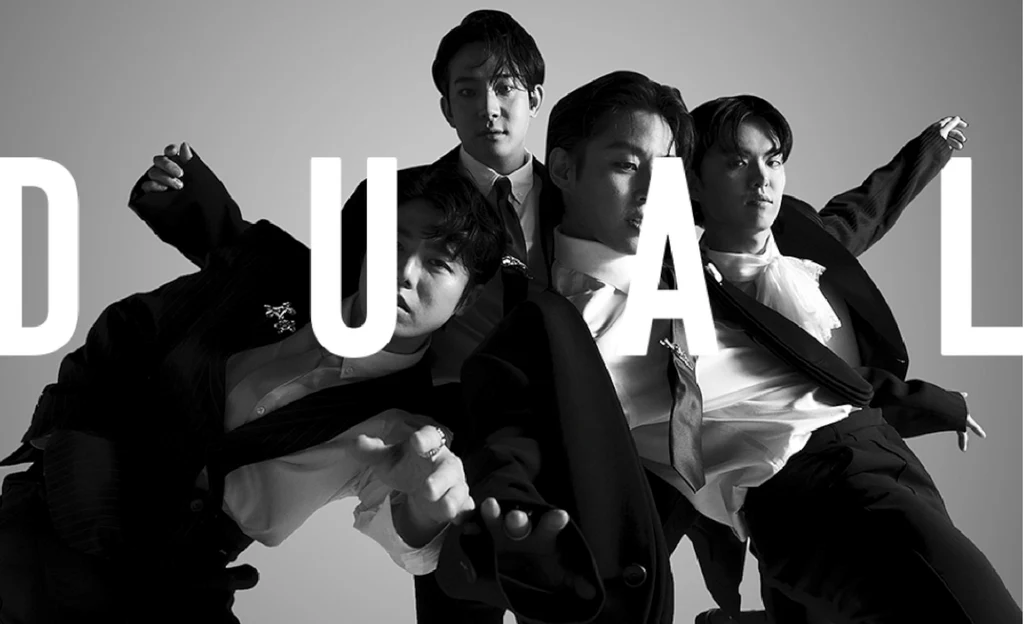
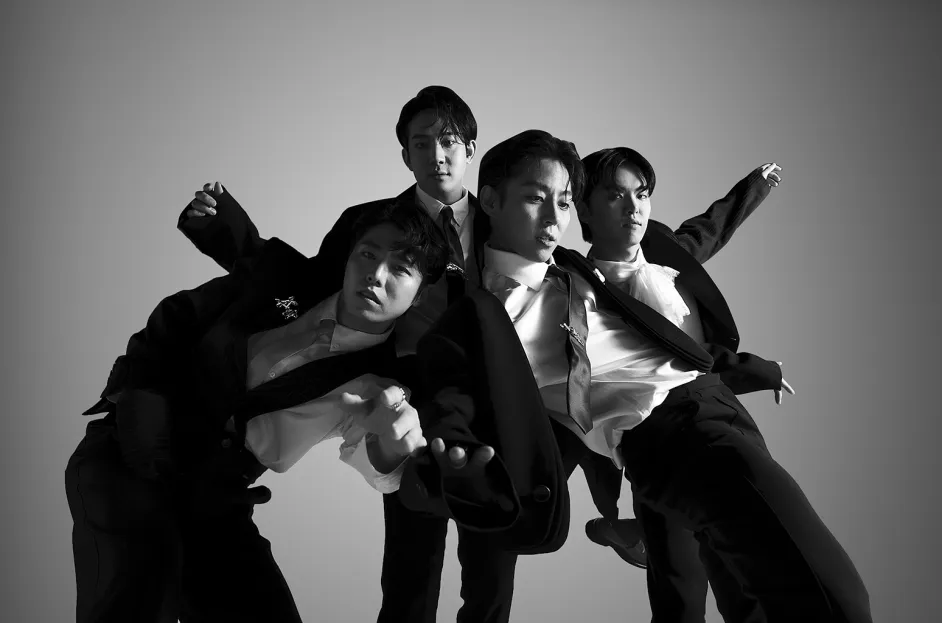
agregué contenido
agregué más contenido a la página, hice cambios en la estructura y en el menú hamburguesa

diff --git a/css/styles.css b/css/styles.css
@@ -1,7 +1,4 @@
 body{
- /*   width: 100%;
-   height: 100%; */
-   background-color: rgb(0, 0, 0);
    color:#FFFEFD;
    font-family: "Oswald", sans-serif;
    font-optical-sizing: auto;
@@ -13,10 +10,10 @@ body{
    background-repeat: no-repeat;
    background-attachment: fixed;
 }
-#principal{
+#logoPrincipal{
     display: inline-block;
     position: absolute;
-    right: 40%;
+    right: 37%;
     top: 4%;
 }
 #rosa{
@@ -28,7 +25,6 @@ body{
     position: fixed;
     top: 0;
     right: 0;
-    z-index: 999; 
 }
 a{
    text-decoration: none;
@@ -36,7 +32,7 @@ a{
    right: 0;
    display: inline-block;
    padding: 3rem;
-   color: #c78f27;
+   color: #fffffe;
 }
 #panel_hamburguesa{
     position: fixed;
@@ -46,13 +42,14 @@ a{
     background-size: 100% 100%;
     height: 600px;
     width: 270px;
-    background-image: url(../images/imgMenu.jpg);
+    background-color: #74706d38;
+    border-style:double;
+    /* background-image: url(../images/imgMenu.jpg);
     background-repeat: repeat;
-    background-size: 90px;
+    background-size: 90px; */
 }
 #panel_hamburguesa:target{
     right: 0;
-    z-index: 999;
 }
 #cerrar{
     display: none;
@@ -63,42 +60,22 @@ a{
 #panel_hamburguesa:target ~ header nav #cerrar{
     display: inline-block;
 }
-.rosarium{
+/* .rosarium{
    display: block;
    text-align: left;
 }
-.enlace{
+.discosPrevios{
     display: block;
     text-align: left;
-}
-#tapado{
-    position:fixed;
-    top: 0;
-    left: 0;
-    width: 100%;
-    height: 100%;
-    z-index: 900;
-    background-color: rgba(0, 0, 0, 0);
-    opacity: 0;
-    transition: background-color 1s ease opacity 0.5 ease;
-}
-#panelhamburguesa :target ~ #tapado{
-   
-    opacity: 1;
-    background-color: rgba(175, 36, 36, 0.61);
-}
+} */
 #parrafos{
-    /* display: block;
-    flex-flow: column wrap;
-    align-items: center; */
-    
     text-align: center;
     display: inline-block;
     position: absolute;
-    right: 28%;
+    right: 25%;
     top: 30%;
 }
-.portada{
+.portadaAlbum{
     width: 350px;
 }
 #album{
@@ -107,7 +84,7 @@ a{
    left: 18%;
    top: 70%;
 }
-#descripcion{
+#descripcionAlbum{
   display: inline-block;
   position: absolute;
   right: 50%;
@@ -130,35 +107,33 @@ iframe{
     left: 15%;
     top: 110%;
 }
-#banda{
+#imgBanda{
    display: inline-block;
    position: absolute;
    right: 10%;
    top: 142%;
 }
  .fotos{
-    width: 600px;
-    height: 500px;
-    /* display: inline-block;
-    position: absolute;
-    top: 250%; */
+    width: 620px;
+    height: 520px;
+    padding: 10px;
  }
- #carrusel{
+ #carrusel1{
     display: inline-block;
     position: absolute;
-    top:240%;
+    top:238%;
     left: 20%;
  }
-/*  #carrusel{
-    min-width: 100vw;
-    display:flex;
-    flex-flow: row wrap;
-    justify-content: space-evenly;
- } */
-  
-/* header{
-    min-width: 100vw;
-    display:flex;
-    flex-direction: row;
-    justify-content: space-between;
-} */
+ #fotoMedio{
+    display: inline-block;
+    position: absolute;
+    top: 295%;
+    left: 36%;
+    height: 550px;
+ }
+#carrusel2{
+    display: inline-block;
+    position: absolute;
+    top: 355%;
+    left: 20%;
+}

diff --git a/index.html b/index.html
@@ -30,16 +30,21 @@
         href="https://web.therosarium.app/the-rose/sign_up"
         >The Rosarium</a
       >
-      <a target="_blank" class="enlace" href="#">Discos previos</a>
+      <a
+        target="_blank"
+        href="https://officialtherose.store/collections/album-md"
+        >Merch Oficial</a
+      >
+      <a class="discosPrevios" href="#">Discos Previos</a>
+      <a href="#carrusel1">Concepto: DUAL</a>
     </div>
-    <div id="tapado"></div>
     <header>
       <img
         id="rosa"
         src="./images/imgBlackRose.jpg"
         alt="logoBlackRose"
       /><!-- este logo de Rosa queda fijo en la pantalla -->
-      <div id="principal">
+      <div id="logoPrincipal">
         <img src="./images/logoTheRose.png" alt="logo_TheRose" />
       </div>
       <nav>
@@ -93,9 +98,13 @@
       </section>
       <section>
         <div id="album">
-          <img class="portada" src="./images/dualLogo2.png" alt="logo_Album" />
+          <img
+            class="portadaAlbum"
+            src="./images/dualLogo2.png"
+            alt="logo_Album"
+          />
         </div>
-        <div id="descripcion">
+        <div id="descripcionAlbum">
           <p>Álbum</p>
           <p id="parrafoDual">DUAL</p>
           <p>11 canciones, 32min 25s</p>
@@ -217,7 +226,7 @@
         </div>
       </section>
       <section>
-        <div id="banda">
+        <div id="imgBanda">
           <figure>
             <img src="./images/banda2.jpg" alt="imagen_banda" height="500px" />
             <figcaption>Concepto Álbum Dual</figcaption>
@@ -225,9 +234,19 @@
         </div>
       </section>
       <section>
-        <div id="carrusel">
+        <div id="carrusel1">
           <img class="fotos" src="./images/banda3.png" alt="imagen_banda" />
           <img class="fotos" src="./images/banda4.webp" alt="imagen_banda" />
+        </div>
+        <img
+          id="fotoMedio"
+          class="fotos"
+          src="./images/banda7.jpg"
+          alt="imagen_banda"
+        />
+        <div id="carrusel2">
+          <img class="fotos" src="./images/banda5.jpeg" alt="imagen_banda" />
+          <img class="fotos" src="./images/banda6.webp" alt="imagen_banda" />
         </div>
       </section>
     </main>
